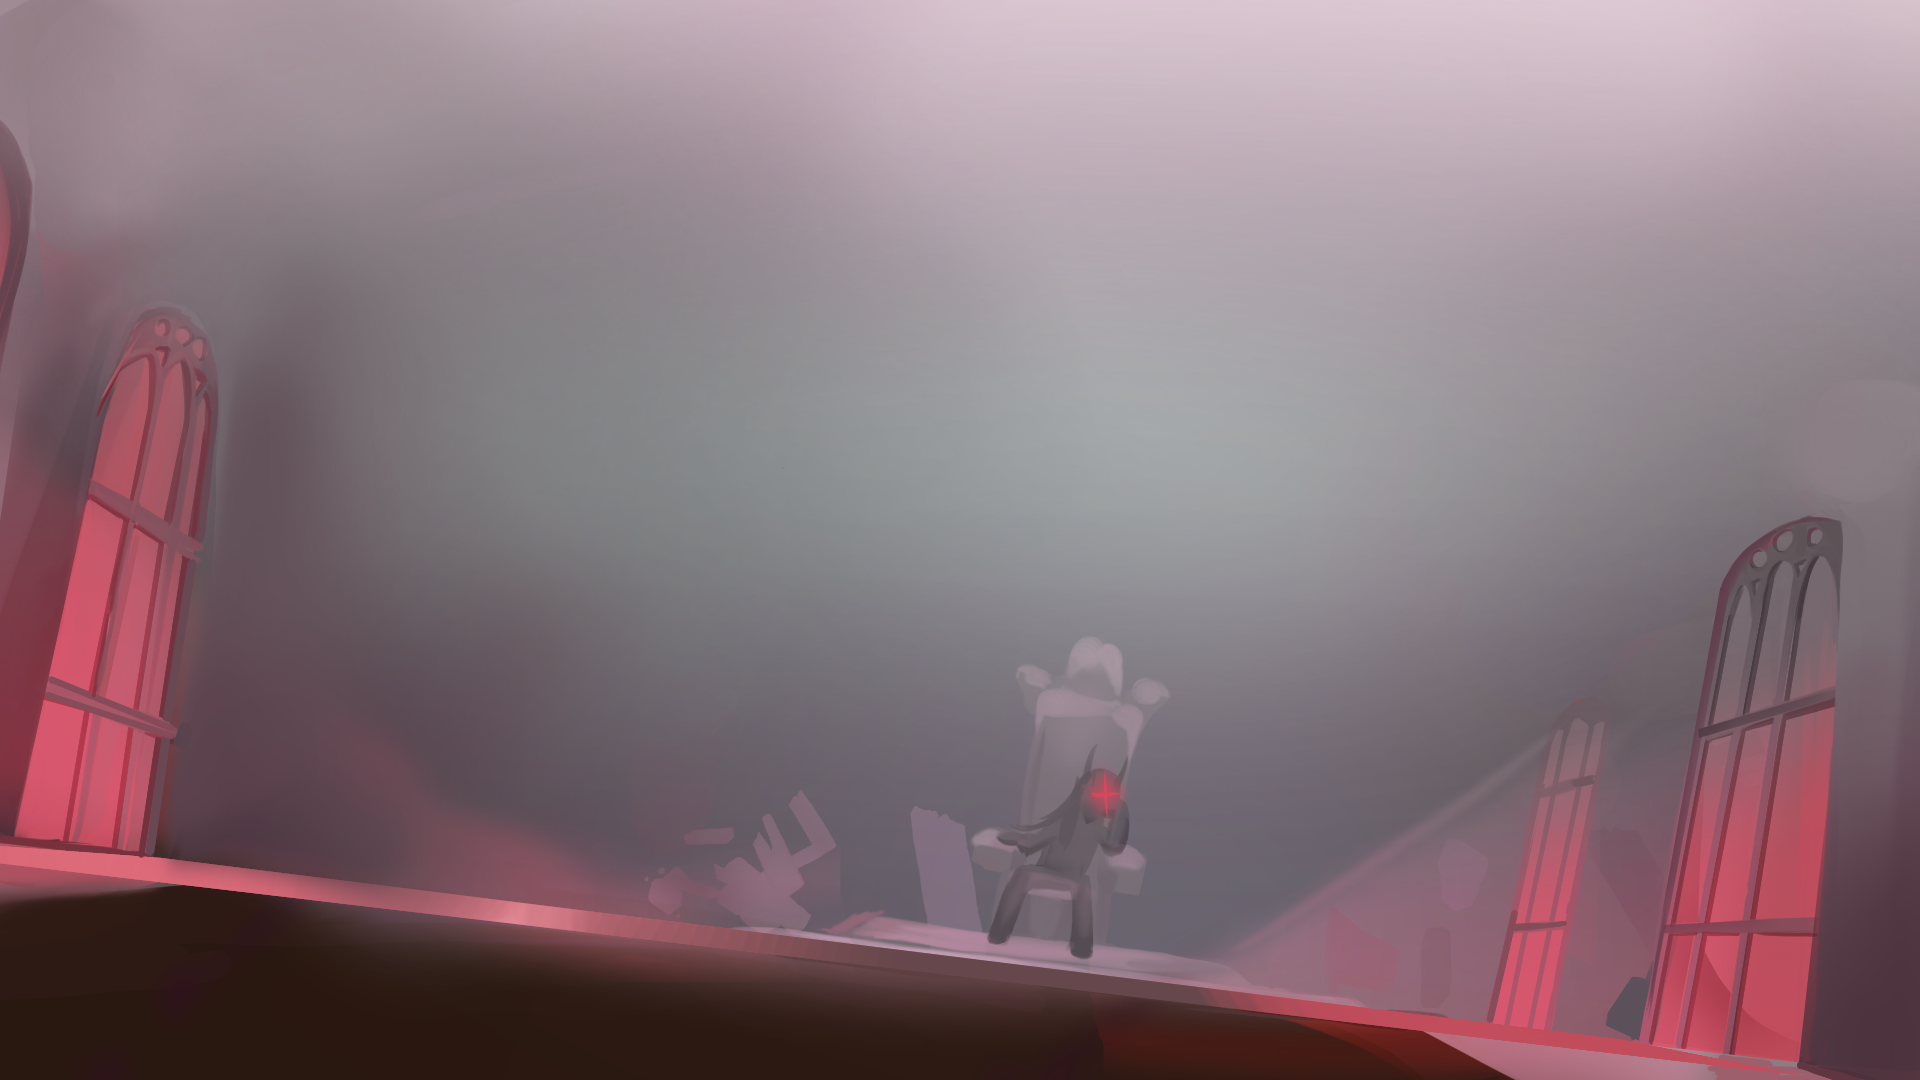
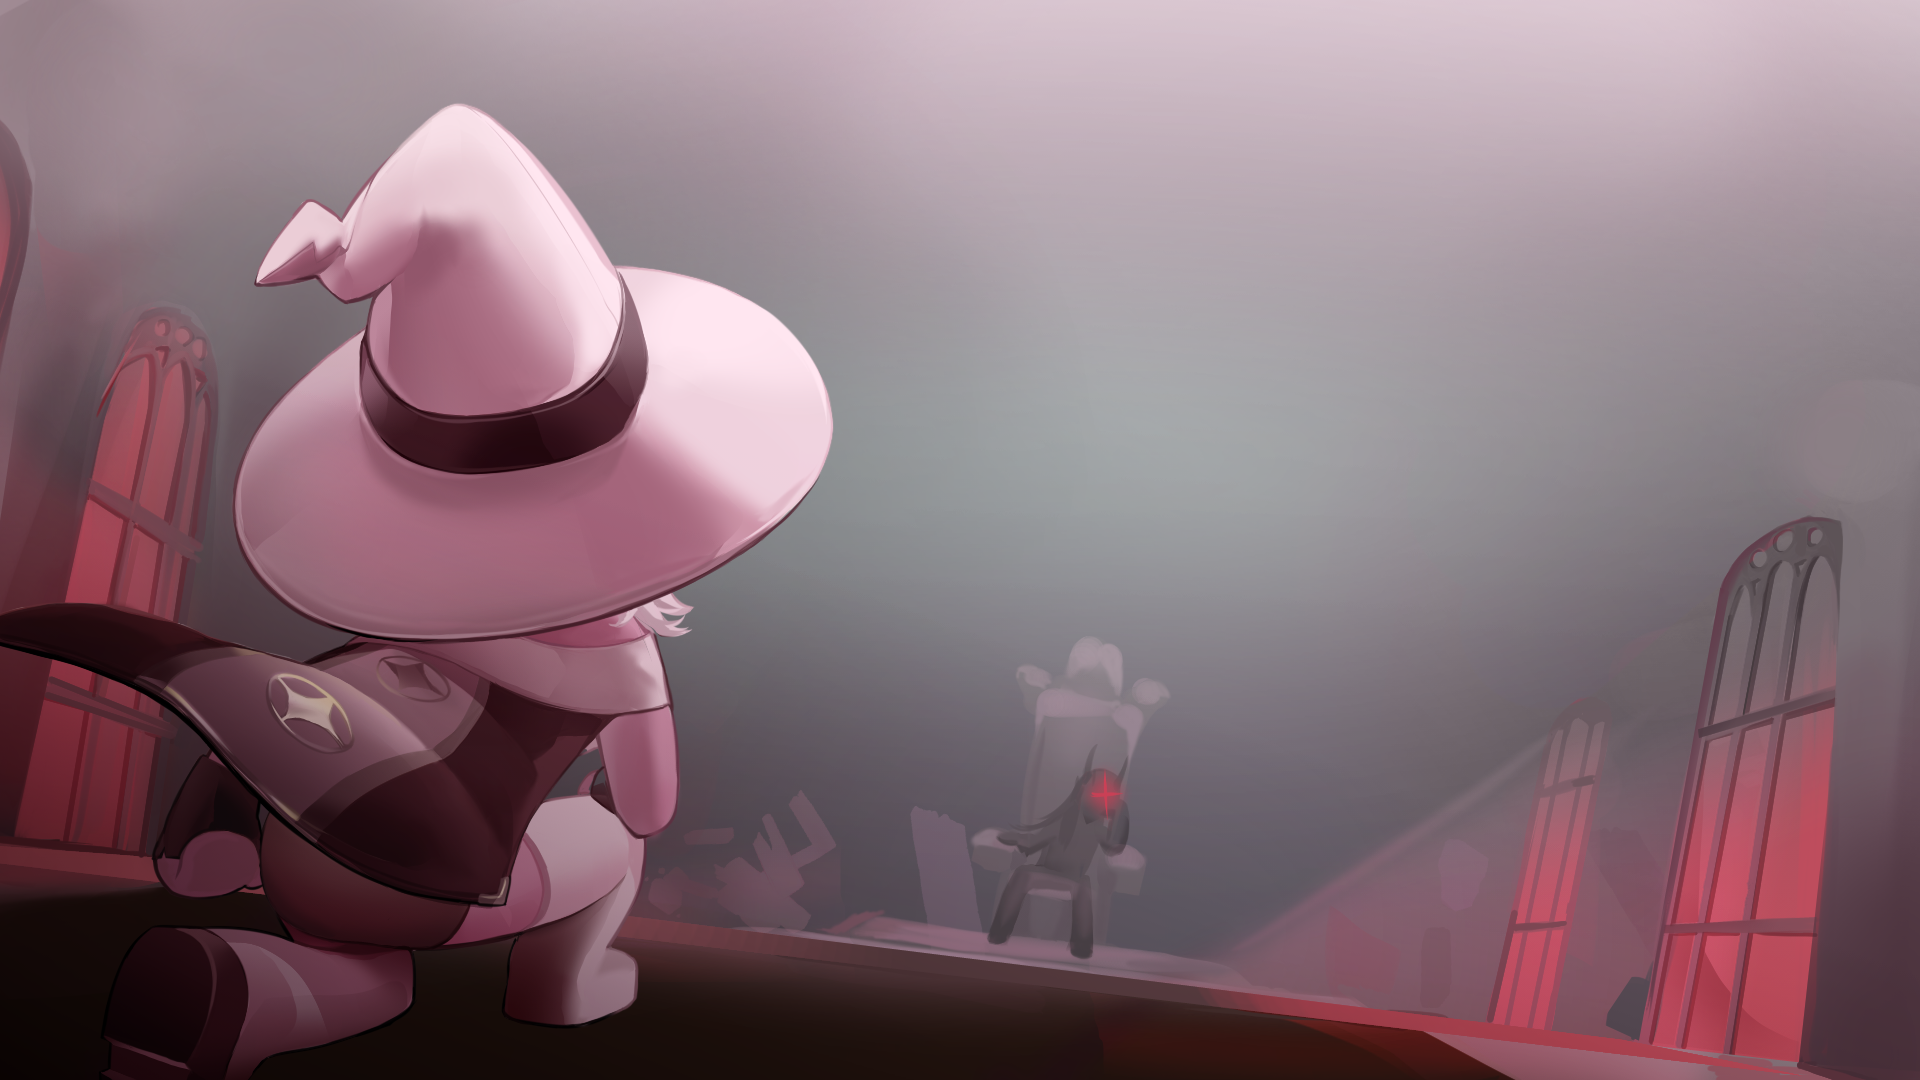
메인 레벨 돌 배치

Changed region(s): [[0.0, 0.0917, 0.875, 1.0]]

diff --git a/Memorize/MainLevel.cpp b/Memorize/MainLevel.cpp
@@ -7,6 +7,11 @@
 #include "CursorUIPanel.h"
 #include "Loading.h"
 #include "LeftRock.h"
+#include "Rock01.h"
+#include "Rock03.h"
+#include "Rock04.h"
+#include "Rock05.h"
+#include "Title.h"
 #include "RightRock.h"
 #include "HowToPlayUIPanel.h"
 #include "D2DGameEngine/UIButton.h"
@@ -37,28 +42,26 @@ void MainLevel::Enter()
 	background->SetTickProperties(TICK_RENDER);
 	background->renderLayer = -1;
 
-
 	leftRock = CreateActor<LeftRock>();
 	leftRock->SetLocation(-1920 / 2  + 200, -200);
 
-	Actor* character = CreateActor<Actor>();
-	AnimationBitmapComponent* characterBm = character->CreateComponent<AnimationBitmapComponent>();
-	characterBm->SetSprite(L"TestResource/Main/02.png");
-	characterBm->SliceSpriteSheet(850, 981, 0, 0, 0, 0);
-	character->rootComponent = characterBm;
-	characterBm->SetTranslation(-1920 / 2 + 425, 88);
-	character->SetTickProperties(TICK_RENDER);
-	character->renderLayer = 3;
+	Rock01* leftRock01 = CreateActor<Rock01>();
+	leftRock01->SetLocation(-SCREEN_WIDTH / 2 + 440, -SCREEN_HEIGHT / 2 + 80);
+
+	Rock03* leftRock03 = CreateActor<Rock03>();
+	leftRock03->SetLocation(0, SCREEN_HEIGHT / 2 - 50);
+
+	Rock04* leftRock04 = CreateActor<Rock04>();
+	leftRock04->SetLocation(-SCREEN_WIDTH / 2 + 50, 240);
+
+	Rock05* leftRock05 = CreateActor<Rock05>();
+	leftRock05->SetLocation(SCREEN_WIDTH / 2 - 80, -100);
 
 	rightRock = CreateActor<RightRock>();
 	rightRock->SetLocation(1920 / 2 - 677 / 2 + 75, 1080 / 2 - 310);
 
-	title = CreateActor<Actor>();
-	BitmapComponent* bm = title->CreateComponent<BitmapComponent>();
-	title->rootComponent = bm;
-	bm->SetSprite(L"TestResource/Main/Title.png");
-	title->SetLocation( 400, -200);
-	title->SetTickProperties(TICK_RENDER);
+	Title* title = CreateActor<Title>();
+	title->SetLocation(400, -200);
 	title->renderLayer = 3;
 	__super::Enter();
 }

diff --git a/Memorize/Rock01.cpp b/Memorize/Rock01.cpp
@@ -1,0 +1,48 @@
+#include "Rock01.h"
+#include "D2DGameEngine/BitmapComponent.h"
+
+
+Rock01::Rock01(World* _world) : Actor(_world)
+{
+	SetTickProperties(TICK_UPDATE | TICK_RENDER);
+	BitmapComponent* abm = CreateComponent<BitmapComponent>();
+	abm->SetSprite(L"TestResource/Main/Title_rocks01.png");
+	rootComponent = abm;
+}
+
+Rock01::~Rock01()
+{
+}
+
+void Rock01::Update(float _dt)
+{
+	__super::Update(_dt);
+
+	if (tweenRotate == nullptr)
+	{
+		tweenRotate = new DotTween<float>;
+		tweenRotate->SetData(&rotateValue);
+		tweenRotate->SetDuration(3);
+		tweenRotate->SetStartPoint(-3);
+		tweenRotate->SetEndPoint(3);
+		tweenRotate->SetEasingEffect(EasingEffect::Linear);
+		tweenRotate->SetStepAnimation(StepAnimation::StepLoopPingPong);
+	}
+
+	if (tweenUpAndDown == nullptr)
+	{
+		tweenUpAndDown = new DotTween<float>;
+		tweenUpAndDown->SetData(&updownValue);
+		tweenUpAndDown->SetDuration(3);
+		tweenUpAndDown->SetStartPoint(-0.1);
+		tweenUpAndDown->SetEndPoint(0.1);
+		tweenUpAndDown->SetEasingEffect(EasingEffect::Linear);
+		tweenUpAndDown->SetStepAnimation(StepAnimation::StepLoopPingPong);
+	}
+
+	tweenRotate->Update(_dt);
+	tweenUpAndDown->Update(_dt);
+
+	SetRotation(rotateValue);
+	rootComponent->Translate(0, updownValue);
+}

diff --git a/Memorize/Rock03.cpp b/Memorize/Rock03.cpp
@@ -1,0 +1,48 @@
+#include "Rock03.h"
+#include "D2DGameEngine/BitmapComponent.h"
+
+
+Rock03::Rock03(World* _world) : Actor(_world)
+{
+	SetTickProperties(TICK_UPDATE | TICK_RENDER);
+	BitmapComponent* abm = CreateComponent<BitmapComponent>();
+	abm->SetSprite(L"TestResource/Main/Title_rocks03.png");
+	rootComponent = abm;
+}
+
+Rock03::~Rock03()
+{
+}
+
+void Rock03::Update(float _dt)
+{
+	__super::Update(_dt);
+
+	if (tweenRotate == nullptr)
+	{
+		tweenRotate = new DotTween<float>;
+		tweenRotate->SetData(&rotateValue);
+		tweenRotate->SetDuration(3);
+		tweenRotate->SetStartPoint(-3);
+		tweenRotate->SetEndPoint(3);
+		tweenRotate->SetEasingEffect(EasingEffect::Linear);
+		tweenRotate->SetStepAnimation(StepAnimation::StepLoopPingPong);
+	}
+
+	if (tweenUpAndDown == nullptr)
+	{
+		tweenUpAndDown = new DotTween<float>;
+		tweenUpAndDown->SetData(&updownValue);
+		tweenUpAndDown->SetDuration(3);
+		tweenUpAndDown->SetStartPoint(-0.1);
+		tweenUpAndDown->SetEndPoint(0.1);
+		tweenUpAndDown->SetEasingEffect(EasingEffect::Linear);
+		tweenUpAndDown->SetStepAnimation(StepAnimation::StepLoopPingPong);
+	}
+
+	tweenRotate->Update(_dt);
+	tweenUpAndDown->Update(_dt);
+
+	SetRotation(rotateValue);
+	rootComponent->Translate(0, updownValue);
+}

diff --git a/Memorize/Rock04.cpp b/Memorize/Rock04.cpp
@@ -1,0 +1,48 @@
+#include "Rock04.h"
+#include "D2DGameEngine/BitmapComponent.h"
+
+
+Rock04::Rock04(World* _world) : Actor(_world)
+{
+	SetTickProperties(TICK_UPDATE | TICK_RENDER);
+	BitmapComponent* abm = CreateComponent<BitmapComponent>();
+	abm->SetSprite(L"TestResource/Main/Title_rocks04.png");
+	rootComponent = abm;
+}
+
+Rock04::~Rock04()
+{
+}
+
+void Rock04::Update(float _dt)
+{
+	__super::Update(_dt);
+
+	if (tweenRotate == nullptr)
+	{
+		tweenRotate = new DotTween<float>;
+		tweenRotate->SetData(&rotateValue);
+		tweenRotate->SetDuration(3);
+		tweenRotate->SetStartPoint(-3);
+		tweenRotate->SetEndPoint(3);
+		tweenRotate->SetEasingEffect(EasingEffect::Linear);
+		tweenRotate->SetStepAnimation(StepAnimation::StepLoopPingPong);
+	}
+
+	if (tweenUpAndDown == nullptr)
+	{
+		tweenUpAndDown = new DotTween<float>;
+		tweenUpAndDown->SetData(&updownValue);
+		tweenUpAndDown->SetDuration(3);
+		tweenUpAndDown->SetStartPoint(-0.1);
+		tweenUpAndDown->SetEndPoint(0.1);
+		tweenUpAndDown->SetEasingEffect(EasingEffect::Linear);
+		tweenUpAndDown->SetStepAnimation(StepAnimation::StepLoopPingPong);
+	}
+
+	tweenRotate->Update(_dt);
+	tweenUpAndDown->Update(_dt);
+
+	SetRotation(rotateValue);
+	rootComponent->Translate(0, updownValue);
+}

diff --git a/Memorize/Rock05.cpp b/Memorize/Rock05.cpp
@@ -1,0 +1,48 @@
+#include "Rock05.h"
+#include "D2DGameEngine/BitmapComponent.h"
+
+
+Rock05::Rock05(World* _world) : Actor(_world)
+{
+	SetTickProperties(TICK_UPDATE | TICK_RENDER);
+	BitmapComponent* abm = CreateComponent<BitmapComponent>();
+	abm->SetSprite(L"TestResource/Main/Title_rocks05.png");
+	rootComponent = abm;
+}
+
+Rock05::~Rock05()
+{
+}
+
+void Rock05::Update(float _dt)
+{
+	__super::Update(_dt);
+
+	if (tweenRotate == nullptr)
+	{
+		tweenRotate = new DotTween<float>;
+		tweenRotate->SetData(&rotateValue);
+		tweenRotate->SetDuration(3);
+		tweenRotate->SetStartPoint(-3);
+		tweenRotate->SetEndPoint(3);
+		tweenRotate->SetEasingEffect(EasingEffect::Linear);
+		tweenRotate->SetStepAnimation(StepAnimation::StepLoopPingPong);
+	}
+
+	if (tweenUpAndDown == nullptr)
+	{
+		tweenUpAndDown = new DotTween<float>;
+		tweenUpAndDown->SetData(&updownValue);
+		tweenUpAndDown->SetDuration(3);
+		tweenUpAndDown->SetStartPoint(-0.1);
+		tweenUpAndDown->SetEndPoint(0.1);
+		tweenUpAndDown->SetEasingEffect(EasingEffect::Linear);
+		tweenUpAndDown->SetStepAnimation(StepAnimation::StepLoopPingPong);
+	}
+
+	tweenRotate->Update(_dt);
+	tweenUpAndDown->Update(_dt);
+
+	SetRotation(rotateValue);
+	rootComponent->Translate(0, updownValue);
+}

diff --git a/Memorize/Title.cpp b/Memorize/Title.cpp
@@ -1,0 +1,35 @@
+#include "Title.h"
+#include "D2DGameEngine/BitmapComponent.h"
+
+
+Title::Title(World* _world) : Actor(_world)
+{
+	SetTickProperties(TICK_UPDATE | TICK_RENDER);
+	BitmapComponent* abm = CreateComponent<BitmapComponent>();
+	abm->SetSprite(L"TestResource/Main/Title.png");
+	rootComponent = abm;
+}
+
+Title::~Title()
+{
+}
+
+void Title::Update(float _dt)
+{
+	__super::Update(_dt);
+
+	if (tweenUpAndDown == nullptr)
+	{
+		tweenUpAndDown = new DotTween<float>;
+		tweenUpAndDown->SetData(&updownValue);
+		tweenUpAndDown->SetDuration(3);
+		tweenUpAndDown->SetStartPoint(-0.1);
+		tweenUpAndDown->SetEndPoint(0.1);
+		tweenUpAndDown->SetEasingEffect(EasingEffect::Linear);
+		tweenUpAndDown->SetStepAnimation(StepAnimation::StepLoopPingPong);
+	}
+
+	tweenUpAndDown->Update(_dt);
+
+	rootComponent->Translate(0, updownValue);
+}

diff --git a/Memorize/Rock01.h b/Memorize/Rock01.h
@@ -1,0 +1,17 @@
+#pragma once
+#include "D2DGameEngine/Actor.h"
+#include "D2DGameEngine/DotTween.h"
+
+class Rock01 : public Actor
+{
+	DotTween<float>* tweenRotate{ nullptr };
+	DotTween<float>* tweenUpAndDown{ nullptr };
+	float rotateValue{ 0.f };
+	float updownValue{ 0.f };
+public:
+	Rock01(World* _world);
+	virtual ~Rock01();
+
+	virtual void Update(float _dt) override;
+};
+

diff --git a/Memorize/Rock03.h b/Memorize/Rock03.h
@@ -1,0 +1,17 @@
+#pragma once
+#include "D2DGameEngine/Actor.h"
+#include "D2DGameEngine/DotTween.h"
+
+class Rock03 : public Actor
+{
+	DotTween<float>* tweenRotate{ nullptr };
+	DotTween<float>* tweenUpAndDown{ nullptr };
+	float rotateValue{ 0.f };
+	float updownValue{ 0.f };
+public:
+	Rock03(World* _world);
+	virtual ~Rock03();
+
+	virtual void Update(float _dt) override;
+};
+

diff --git a/Memorize/Rock04.h b/Memorize/Rock04.h
@@ -1,0 +1,17 @@
+#pragma once
+#include "D2DGameEngine/Actor.h"
+#include "D2DGameEngine/DotTween.h"
+
+class Rock04 : public Actor
+{
+	DotTween<float>* tweenRotate{ nullptr };
+	DotTween<float>* tweenUpAndDown{ nullptr };
+	float rotateValue{ 0.f };
+	float updownValue{ 0.f };
+public:
+	Rock04(World* _world);
+	virtual ~Rock04();
+
+	virtual void Update(float _dt) override;
+};
+

diff --git a/Memorize/Rock05.h b/Memorize/Rock05.h
@@ -1,0 +1,17 @@
+#pragma once
+#include "D2DGameEngine/Actor.h"
+#include "D2DGameEngine/DotTween.h"
+
+class Rock05 : public Actor
+{
+	DotTween<float>* tweenRotate{ nullptr };
+	DotTween<float>* tweenUpAndDown{ nullptr };
+	float rotateValue{ 0.f };
+	float updownValue{ 0.f };
+public:
+	Rock05(World* _world);
+	virtual ~Rock05();
+
+	virtual void Update(float _dt) override;
+};
+

diff --git a/Memorize/Title.h b/Memorize/Title.h
@@ -1,0 +1,15 @@
+#pragma once
+#include "D2DGameEngine/Actor.h"
+#include "D2DGameEngine/DotTween.h"
+
+class Title : public Actor
+{
+	DotTween<float>* tweenUpAndDown{ nullptr };
+	float updownValue{ 0.f };
+public:
+	Title(World* _world);
+	virtual ~Title();
+
+	virtual void Update(float _dt) override;
+};
+
